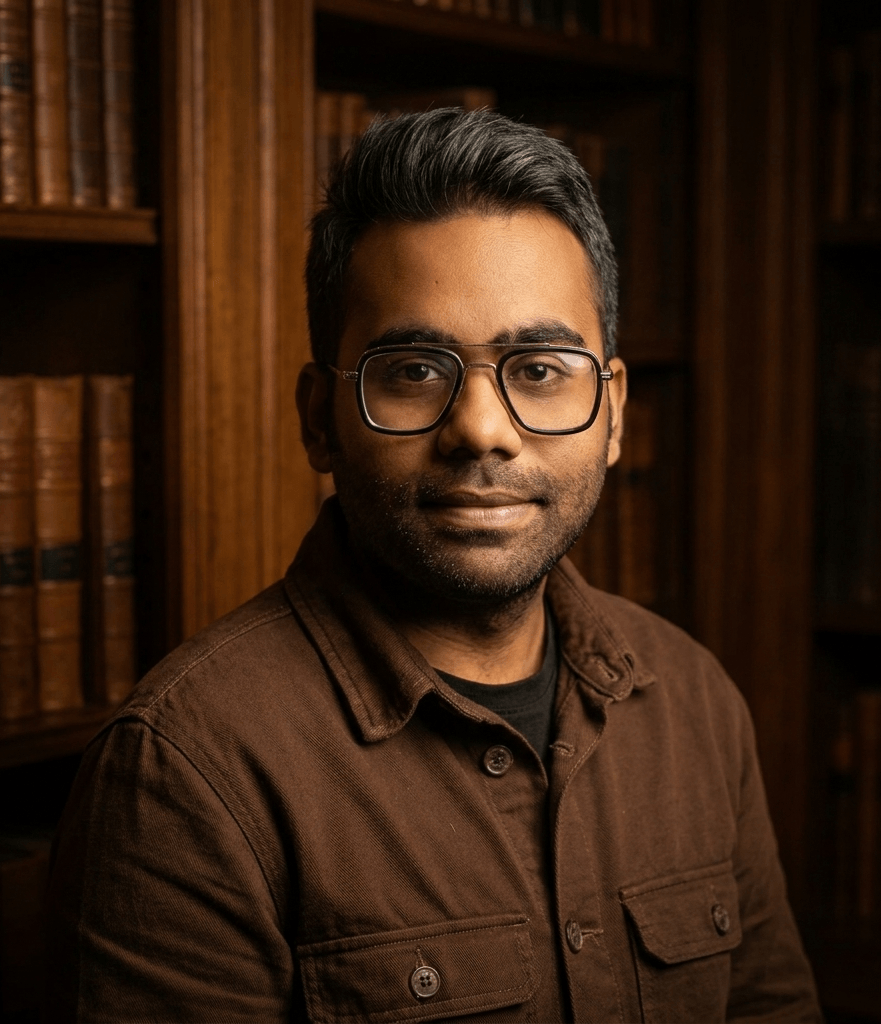
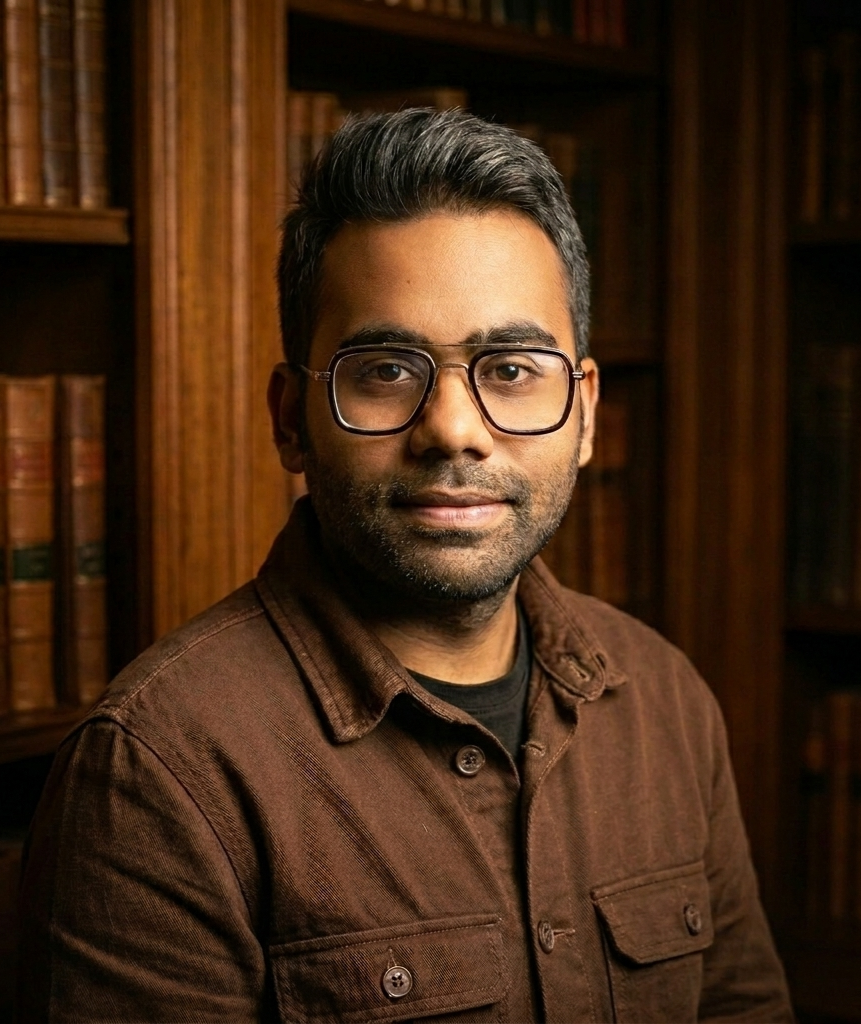
Update site

diff --git a/favorites.html b/favorites.html
@@ -153,8 +153,8 @@
           <div class="grid grid-cols-2 md:grid-cols-3 lg:grid-cols-5 gap-8">
             <!-- Movie Card 1 -->
             <div class="group space-y-4">
-              <div class="aspect-[2/3] rounded-2xl overflow-hidden bg-zinc-900 border border-zinc-800 relative skeleton">
-                <img src="posters/zacksnydersjusticeleague.png" alt="Zack Snyder's Justice League" class="w-full h-full object-cover grayscale opacity-80 contrast-75 group-hover:grayscale-0 group-hover:opacity-100 group-hover:contrast-100 transition-all duration-700 group-hover:scale-105 opacity-0 invisible" fetchpriority="high" referrerPolicy="no-referrer" onload="onThumbnailLoad(this)">
+              <div class="aspect-[2/3] rounded-2xl overflow-hidden bg-zinc-900 border border-zinc-800 relative skeleton theme-photo-shade">
+                <img src="posters/zacksnydersjusticeleague.png" alt="Zack Snyder's Justice League" class="w-full h-full object-cover group-hover:scale-105 opacity-0 invisible" fetchpriority="high" referrerPolicy="no-referrer" onload="onThumbnailLoad(this)">
                 <div class="absolute inset-0 bg-gradient-to-t from-black/60 to-transparent opacity-0 group-hover:opacity-100 transition-opacity"></div>
               </div>
               <h3 class="text-lg font-bold group-hover:text-white transition-colors text-center">Zack Snyder's Justice League</h3>
@@ -162,8 +162,8 @@
 
             <!-- Movie Card 2 -->
             <div class="group space-y-4">
-              <div class="aspect-[2/3] rounded-2xl overflow-hidden bg-zinc-900 border border-zinc-800 relative skeleton">
-                <img src="posters/blackmirror.jpg" alt="Black Mirror" class="w-full h-full object-cover grayscale opacity-80 contrast-75 group-hover:grayscale-0 group-hover:opacity-100 group-hover:contrast-100 transition-all duration-700 group-hover:scale-105 opacity-0 invisible" fetchpriority="high" referrerPolicy="no-referrer" onload="onThumbnailLoad(this)">
+              <div class="aspect-[2/3] rounded-2xl overflow-hidden bg-zinc-900 border border-zinc-800 relative skeleton theme-photo-shade">
+                <img src="posters/blackmirror.jpg" alt="Black Mirror" class="w-full h-full object-cover group-hover:scale-105 opacity-0 invisible" fetchpriority="high" referrerPolicy="no-referrer" onload="onThumbnailLoad(this)">
                 <div class="absolute inset-0 bg-gradient-to-t from-black/60 to-transparent opacity-0 group-hover:opacity-100 transition-opacity"></div>
               </div>
               <h3 class="text-lg font-bold group-hover:text-white transition-colors text-center">Black Mirror</h3>
@@ -171,8 +171,8 @@
 
             <!-- Movie Card 3 -->
             <div class="group space-y-4">
-              <div class="aspect-[2/3] rounded-2xl overflow-hidden bg-zinc-900 border border-zinc-800 relative skeleton">
-                <img src="posters/dark.jpg" alt="Dark" class="w-full h-full object-cover grayscale opacity-80 contrast-75 group-hover:grayscale-0 group-hover:opacity-100 group-hover:contrast-100 transition-all duration-700 group-hover:scale-105 opacity-0 invisible" fetchpriority="high" referrerPolicy="no-referrer" onload="onThumbnailLoad(this)">
+              <div class="aspect-[2/3] rounded-2xl overflow-hidden bg-zinc-900 border border-zinc-800 relative skeleton theme-photo-shade">
+                <img src="posters/dark.jpg" alt="Dark" class="w-full h-full object-cover group-hover:scale-105 opacity-0 invisible" fetchpriority="high" referrerPolicy="no-referrer" onload="onThumbnailLoad(this)">
                 <div class="absolute inset-0 bg-gradient-to-t from-black/60 to-transparent opacity-0 group-hover:opacity-100 transition-opacity"></div>
               </div>
               <h3 class="text-lg font-bold group-hover:text-white transition-colors text-center">Dark</h3>
@@ -180,8 +180,8 @@
 
             <!-- Movie Card 4 -->
             <div class="group space-y-4">
-              <div class="aspect-[2/3] rounded-2xl overflow-hidden bg-zinc-900 border border-zinc-800 relative skeleton">
-                <img src="posters/themartian.jpg" alt="The Martian" class="w-full h-full object-cover grayscale opacity-80 contrast-75 group-hover:grayscale-0 group-hover:opacity-100 group-hover:contrast-100 transition-all duration-700 group-hover:scale-105 opacity-0 invisible" fetchpriority="high" referrerPolicy="no-referrer" onload="onThumbnailLoad(this)">
+              <div class="aspect-[2/3] rounded-2xl overflow-hidden bg-zinc-900 border border-zinc-800 relative skeleton theme-photo-shade">
+                <img src="posters/themartian.jpg" alt="The Martian" class="w-full h-full object-cover group-hover:scale-105 opacity-0 invisible" fetchpriority="high" referrerPolicy="no-referrer" onload="onThumbnailLoad(this)">
                 <div class="absolute inset-0 bg-gradient-to-t from-black/60 to-transparent opacity-0 group-hover:opacity-100 transition-opacity"></div>
               </div>
               <h3 class="text-lg font-bold group-hover:text-white transition-colors text-center">The Martian</h3>
@@ -189,8 +189,8 @@
 
             <!-- Movie Card 5 -->
             <div class="group space-y-4">
-              <div class="aspect-[2/3] rounded-2xl overflow-hidden bg-zinc-900 border border-zinc-800 relative skeleton">
-                <img src="posters/strangerthings.jpg" alt="Stranger Things" class="w-full h-full object-cover grayscale opacity-80 contrast-75 group-hover:grayscale-0 group-hover:opacity-100 group-hover:contrast-100 transition-all duration-700 group-hover:scale-105 opacity-0 invisible" fetchpriority="high" referrerPolicy="no-referrer" onload="onThumbnailLoad(this)">
+              <div class="aspect-[2/3] rounded-2xl overflow-hidden bg-zinc-900 border border-zinc-800 relative skeleton theme-photo-shade">
+                <img src="posters/strangerthings.jpg" alt="Stranger Things" class="w-full h-full object-cover group-hover:scale-105 opacity-0 invisible" fetchpriority="high" referrerPolicy="no-referrer" onload="onThumbnailLoad(this)">
                 <div class="absolute inset-0 bg-gradient-to-t from-black/60 to-transparent opacity-0 group-hover:opacity-100 transition-opacity"></div>
               </div>
               <h3 class="text-lg font-bold group-hover:text-white transition-colors text-center">Stranger Things</h3>
@@ -396,68 +396,68 @@
 
           <div id="galleryGrid" class="grid grid-cols-2 md:grid-cols-4 lg:grid-cols-5 gap-6">
             <!-- Images are now managed by index to handle responsive counts -->
-            <div class="aspect-[3/4] rounded-3xl overflow-hidden bg-zinc-900 border border-zinc-800 group cursor-pointer skeleton" data-gallery-index="0" onclick="openGallery(0)">
-              <img src="pictures/IMG20250102175550.jpg" alt="Gallery 1" class="w-full h-full object-cover opacity-80 contrast-75 group-hover:opacity-100 group-hover:contrast-100 transition-all duration-700 group-hover:scale-110 opacity-0 invisible" fetchpriority="high" referrerPolicy="no-referrer" onload="onThumbnailLoad(this)">
+            <div class="aspect-[3/4] rounded-3xl overflow-hidden bg-zinc-900 border border-zinc-800 group cursor-pointer skeleton theme-photo-shade" data-gallery-index="0" onclick="openGallery(0)">
+              <img src="pictures/IMG20250102175550.jpg" alt="Gallery 1" class="w-full h-full object-cover group-hover:scale-110 opacity-0 invisible" fetchpriority="high" referrerPolicy="no-referrer" onload="onThumbnailLoad(this)">
             </div>
-            <div class="aspect-[3/4] rounded-3xl overflow-hidden bg-zinc-900 border border-zinc-800 group cursor-pointer skeleton" data-gallery-index="1" onclick="openGallery(1)">
-              <img src="pictures/IMG20220401160123.jpg" alt="Gallery 2" class="w-full h-full object-cover opacity-80 contrast-75 group-hover:opacity-100 group-hover:contrast-100 transition-all duration-700 group-hover:scale-110 opacity-0 invisible" fetchpriority="high" referrerPolicy="no-referrer" onload="onThumbnailLoad(this)">
+            <div class="aspect-[3/4] rounded-3xl overflow-hidden bg-zinc-900 border border-zinc-800 group cursor-pointer skeleton theme-photo-shade" data-gallery-index="1" onclick="openGallery(1)">
+              <img src="pictures/IMG20220401160123.jpg" alt="Gallery 2" class="w-full h-full object-cover group-hover:scale-110 opacity-0 invisible" fetchpriority="high" referrerPolicy="no-referrer" onload="onThumbnailLoad(this)">
             </div>
-            <div class="aspect-[3/4] rounded-3xl overflow-hidden bg-zinc-900 border border-zinc-800 group cursor-pointer skeleton" data-gallery-index="2" onclick="openGallery(2)">
-              <img src="pictures/9c150393-428e-433d-a2a2-87eb7267d379.jpg" alt="Gallery 3" class="w-full h-full object-cover opacity-80 contrast-75 group-hover:opacity-100 group-hover:contrast-100 transition-all duration-700 group-hover:scale-110 opacity-0 invisible" fetchpriority="high" referrerPolicy="no-referrer" onload="onThumbnailLoad(this)">
+            <div class="aspect-[3/4] rounded-3xl overflow-hidden bg-zinc-900 border border-zinc-800 group cursor-pointer skeleton theme-photo-shade" data-gallery-index="2" onclick="openGallery(2)">
+              <img src="pictures/9c150393-428e-433d-a2a2-87eb7267d379.jpg" alt="Gallery 3" class="w-full h-full object-cover group-hover:scale-110 opacity-0 invisible" fetchpriority="high" referrerPolicy="no-referrer" onload="onThumbnailLoad(this)">
             </div>
-            <div class="aspect-[3/4] rounded-3xl overflow-hidden bg-zinc-900 border border-zinc-800 group cursor-pointer skeleton" data-gallery-index="3" onclick="openGallery(3)">
-              <img src="pictures/37c11e17-a0ae-44f3-8b23-326a8793fcf9.jpg" alt="Gallery 4" class="w-full h-full object-cover opacity-80 contrast-75 group-hover:opacity-100 group-hover:contrast-100 transition-all duration-700 group-hover:scale-110 opacity-0 invisible" loading="lazy" referrerPolicy="no-referrer" onload="onThumbnailLoad(this)">
+            <div class="aspect-[3/4] rounded-3xl overflow-hidden bg-zinc-900 border border-zinc-800 group cursor-pointer skeleton theme-photo-shade" data-gallery-index="3" onclick="openGallery(3)">
+              <img src="pictures/37c11e17-a0ae-44f3-8b23-326a8793fcf9.jpg" alt="Gallery 4" class="w-full h-full object-cover group-hover:scale-110 opacity-0 invisible" loading="lazy" referrerPolicy="no-referrer" onload="onThumbnailLoad(this)">
             </div>
-            <div class="aspect-[3/4] rounded-3xl overflow-hidden bg-zinc-900 border border-zinc-800 group cursor-pointer hidden skeleton" data-gallery-index="4" onclick="openGallery(4)">
-              <img src="pictures/1ad9725b-0604-437f-a886-815632e78192.jpg" alt="Gallery 5" class="w-full h-full object-cover opacity-80 contrast-75 group-hover:opacity-100 group-hover:contrast-100 transition-all duration-700 group-hover:scale-110 opacity-0 invisible" loading="lazy" referrerPolicy="no-referrer" onload="onThumbnailLoad(this)">
+            <div class="aspect-[3/4] rounded-3xl overflow-hidden bg-zinc-900 border border-zinc-800 group cursor-pointer hidden skeleton theme-photo-shade" data-gallery-index="4" onclick="openGallery(4)">
+              <img src="pictures/1ad9725b-0604-437f-a886-815632e78192.jpg" alt="Gallery 5" class="w-full h-full object-cover group-hover:scale-110 opacity-0 invisible" loading="lazy" referrerPolicy="no-referrer" onload="onThumbnailLoad(this)">
             </div>
             
-            <div class="aspect-[3/4] rounded-3xl overflow-hidden bg-zinc-900 border border-zinc-800 group cursor-pointer hidden skeleton" data-gallery-index="5" onclick="openGallery(5)">
-              <img src="pictures/50656507-34cb-4921-ab62-d47d68071f7c.jpg" alt="Gallery 6" class="w-full h-full object-cover opacity-80 contrast-75 group-hover:opacity-100 group-hover:contrast-100 transition-all duration-700 group-hover:scale-110 opacity-0 invisible" loading="lazy" referrerPolicy="no-referrer" onload="onThumbnailLoad(this)">
+            <div class="aspect-[3/4] rounded-3xl overflow-hidden bg-zinc-900 border border-zinc-800 group cursor-pointer hidden skeleton theme-photo-shade" data-gallery-index="5" onclick="openGallery(5)">
+              <img src="pictures/50656507-34cb-4921-ab62-d47d68071f7c.jpg" alt="Gallery 6" class="w-full h-full object-cover group-hover:scale-110 opacity-0 invisible" loading="lazy" referrerPolicy="no-referrer" onload="onThumbnailLoad(this)">
             </div>
-            <div class="aspect-[3/4] rounded-3xl overflow-hidden bg-zinc-900 border border-zinc-800 group cursor-pointer hidden skeleton" data-gallery-index="6" onclick="openGallery(6)">
-              <img src="pictures/b3594dfd-1cba-4800-b7a8-3f4253b855e9.jpg" alt="Gallery 7" class="w-full h-full object-cover opacity-80 contrast-75 group-hover:opacity-100 group-hover:contrast-100 transition-all duration-700 group-hover:scale-110 opacity-0 invisible" loading="lazy" referrerPolicy="no-referrer" onload="onThumbnailLoad(this)">
+            <div class="aspect-[3/4] rounded-3xl overflow-hidden bg-zinc-900 border border-zinc-800 group cursor-pointer hidden skeleton theme-photo-shade" data-gallery-index="6" onclick="openGallery(6)">
+              <img src="pictures/b3594dfd-1cba-4800-b7a8-3f4253b855e9.jpg" alt="Gallery 7" class="w-full h-full object-cover group-hover:scale-110 opacity-0 invisible" loading="lazy" referrerPolicy="no-referrer" onload="onThumbnailLoad(this)">
             </div>
-            <div class="aspect-[3/4] rounded-3xl overflow-hidden bg-zinc-900 border border-zinc-800 group cursor-pointer hidden skeleton" data-gallery-index="7" onclick="openGallery(7)">
-              <img src="pictures/10929d4a-d18a-4e4d-92bd-bb59c0de4fba.jpg" alt="Gallery 8" class="w-full h-full object-cover opacity-80 contrast-75 group-hover:opacity-100 group-hover:contrast-100 transition-all duration-700 group-hover:scale-110 opacity-0 invisible" loading="lazy" referrerPolicy="no-referrer" onload="onThumbnailLoad(this)">
+            <div class="aspect-[3/4] rounded-3xl overflow-hidden bg-zinc-900 border border-zinc-800 group cursor-pointer hidden skeleton theme-photo-shade" data-gallery-index="7" onclick="openGallery(7)">
+              <img src="pictures/10929d4a-d18a-4e4d-92bd-bb59c0de4fba.jpg" alt="Gallery 8" class="w-full h-full object-cover group-hover:scale-110 opacity-0 invisible" loading="lazy" referrerPolicy="no-referrer" onload="onThumbnailLoad(this)">
             </div>
-            <div class="aspect-[3/4] rounded-3xl overflow-hidden bg-zinc-900 border border-zinc-800 group cursor-pointer hidden skeleton" data-gallery-index="8" onclick="openGallery(8)">
-              <img src="pictures/640e74df-5d3e-477a-a9cf-6deca11e1441.jpg" alt="Gallery 9" class="w-full h-full object-cover opacity-80 contrast-75 group-hover:opacity-100 group-hover:contrast-100 transition-all duration-700 group-hover:scale-110 opacity-0 invisible" loading="lazy" referrerPolicy="no-referrer" onload="onThumbnailLoad(this)">
+            <div class="aspect-[3/4] rounded-3xl overflow-hidden bg-zinc-900 border border-zinc-800 group cursor-pointer hidden skeleton theme-photo-shade" data-gallery-index="8" onclick="openGallery(8)">
+              <img src="pictures/640e74df-5d3e-477a-a9cf-6deca11e1441.jpg" alt="Gallery 9" class="w-full h-full object-cover group-hover:scale-110 opacity-0 invisible" loading="lazy" referrerPolicy="no-referrer" onload="onThumbnailLoad(this)">
             </div>
-            <div class="aspect-[3/4] rounded-3xl overflow-hidden bg-zinc-900 border border-zinc-800 group cursor-pointer hidden skeleton" data-gallery-index="9" onclick="openGallery(9)">
-              <img src="pictures/625e4fbb-6da9-483f-abdd-1c94a2fcd2a4.jpg" alt="Gallery 10" class="w-full h-full object-cover opacity-80 contrast-75 group-hover:opacity-100 group-hover:contrast-100 transition-all duration-700 group-hover:scale-110 opacity-0 invisible" loading="lazy" referrerPolicy="no-referrer" onload="onThumbnailLoad(this)">
-            </div>
-
-            <div class="aspect-[3/4] rounded-3xl overflow-hidden bg-zinc-900 border border-zinc-800 group cursor-pointer hidden skeleton" data-gallery-index="10" onclick="openGallery(10)">
-              <img src="pictures/11.jpg" alt="Gallery 11" class="w-full h-full object-cover opacity-80 contrast-75 group-hover:opacity-100 group-hover:contrast-100 transition-all duration-700 group-hover:scale-110 opacity-0 invisible" loading="lazy" referrerPolicy="no-referrer" onload="onThumbnailLoad(this)">
-            </div>
-            <div class="aspect-[3/4] rounded-3xl overflow-hidden bg-zinc-900 border border-zinc-800 group cursor-pointer hidden skeleton" data-gallery-index="11" onclick="openGallery(11)">
-              <img src="pictures/12.jpg" alt="Gallery 12" class="w-full h-full object-cover opacity-80 contrast-75 group-hover:opacity-100 group-hover:contrast-100 transition-all duration-700 group-hover:scale-110 opacity-0 invisible" loading="lazy" referrerPolicy="no-referrer" onload="onThumbnailLoad(this)">
-            </div>
-            <div class="aspect-[3/4] rounded-3xl overflow-hidden bg-zinc-900 border border-zinc-800 group cursor-pointer hidden skeleton" data-gallery-index="12" onclick="openGallery(12)">
-              <img src="pictures/13.jpg" alt="Gallery 13" class="w-full h-full object-cover opacity-80 contrast-75 group-hover:opacity-100 group-hover:contrast-100 transition-all duration-700 group-hover:scale-110 opacity-0 invisible" loading="lazy" referrerPolicy="no-referrer" onload="onThumbnailLoad(this)">
-            </div>
-            <div class="aspect-[3/4] rounded-3xl overflow-hidden bg-zinc-900 border border-zinc-800 group cursor-pointer hidden skeleton" data-gallery-index="13" onclick="openGallery(13)">
-              <img src="pictures/14.jpg" alt="Gallery 14" class="w-full h-full object-cover opacity-80 contrast-75 group-hover:opacity-100 group-hover:contrast-100 transition-all duration-700 group-hover:scale-110 opacity-0 invisible" loading="lazy" referrerPolicy="no-referrer" onload="onThumbnailLoad(this)">
-            </div>
-            <div class="aspect-[3/4] rounded-3xl overflow-hidden bg-zinc-900 border border-zinc-800 group cursor-pointer hidden skeleton" data-gallery-index="14" onclick="openGallery(14)">
-              <img src="pictures/15.jpg" alt="Gallery 15" class="w-full h-full object-cover opacity-80 contrast-75 group-hover:opacity-100 group-hover:contrast-100 transition-all duration-700 group-hover:scale-110 opacity-0 invisible" loading="lazy" referrerPolicy="no-referrer" onload="onThumbnailLoad(this)">
+            <div class="aspect-[3/4] rounded-3xl overflow-hidden bg-zinc-900 border border-zinc-800 group cursor-pointer hidden skeleton theme-photo-shade" data-gallery-index="9" onclick="openGallery(9)">
+              <img src="pictures/625e4fbb-6da9-483f-abdd-1c94a2fcd2a4.jpg" alt="Gallery 10" class="w-full h-full object-cover group-hover:scale-110 opacity-0 invisible" loading="lazy" referrerPolicy="no-referrer" onload="onThumbnailLoad(this)">
             </div>
 
-            <div class="aspect-[3/4] rounded-3xl overflow-hidden bg-zinc-900 border border-zinc-800 group cursor-pointer hidden skeleton" data-gallery-index="15" onclick="openGallery(15)">
-              <img src="pictures/16.jpg" alt="Gallery 16" class="w-full h-full object-cover opacity-80 contrast-75 group-hover:opacity-100 group-hover:contrast-100 transition-all duration-700 group-hover:scale-110 opacity-0 invisible" loading="lazy" referrerPolicy="no-referrer" onload="onThumbnailLoad(this)">
+            <div class="aspect-[3/4] rounded-3xl overflow-hidden bg-zinc-900 border border-zinc-800 group cursor-pointer hidden skeleton theme-photo-shade" data-gallery-index="10" onclick="openGallery(10)">
+              <img src="pictures/11.jpg" alt="Gallery 11" class="w-full h-full object-cover group-hover:scale-110 opacity-0 invisible" loading="lazy" referrerPolicy="no-referrer" onload="onThumbnailLoad(this)">
             </div>
-            <div class="aspect-[3/4] rounded-3xl overflow-hidden bg-zinc-900 border border-zinc-800 group cursor-pointer hidden skeleton" data-gallery-index="16" onclick="openGallery(16)">
-              <img src="pictures/17.jpg" alt="Gallery 17" class="w-full h-full object-cover opacity-80 contrast-75 group-hover:opacity-100 group-hover:contrast-100 transition-all duration-700 group-hover:scale-110 opacity-0 invisible" loading="lazy" referrerPolicy="no-referrer" onload="onThumbnailLoad(this)">
+            <div class="aspect-[3/4] rounded-3xl overflow-hidden bg-zinc-900 border border-zinc-800 group cursor-pointer hidden skeleton theme-photo-shade" data-gallery-index="11" onclick="openGallery(11)">
+              <img src="pictures/12.jpg" alt="Gallery 12" class="w-full h-full object-cover group-hover:scale-110 opacity-0 invisible" loading="lazy" referrerPolicy="no-referrer" onload="onThumbnailLoad(this)">
             </div>
-            <div class="aspect-[3/4] rounded-3xl overflow-hidden bg-zinc-900 border border-zinc-800 group cursor-pointer hidden skeleton" data-gallery-index="17" onclick="openGallery(17)">
-              <img src="pictures/18.jpg" alt="Gallery 18" class="w-full h-full object-cover opacity-80 contrast-75 group-hover:opacity-100 group-hover:contrast-100 transition-all duration-700 group-hover:scale-110 opacity-0 invisible" loading="lazy" referrerPolicy="no-referrer" onload="onThumbnailLoad(this)">
+            <div class="aspect-[3/4] rounded-3xl overflow-hidden bg-zinc-900 border border-zinc-800 group cursor-pointer hidden skeleton theme-photo-shade" data-gallery-index="12" onclick="openGallery(12)">
+              <img src="pictures/13.jpg" alt="Gallery 13" class="w-full h-full object-cover group-hover:scale-110 opacity-0 invisible" loading="lazy" referrerPolicy="no-referrer" onload="onThumbnailLoad(this)">
             </div>
-            <div class="aspect-[3/4] rounded-3xl overflow-hidden bg-zinc-900 border border-zinc-800 group cursor-pointer hidden skeleton" data-gallery-index="18" onclick="openGallery(18)">
-              <img src="pictures/19.jpg" alt="Gallery 19" class="w-full h-full object-cover opacity-80 contrast-75 group-hover:opacity-100 group-hover:contrast-100 transition-all duration-700 group-hover:scale-110 opacity-0 invisible" loading="lazy" referrerPolicy="no-referrer" onload="onThumbnailLoad(this)">
+            <div class="aspect-[3/4] rounded-3xl overflow-hidden bg-zinc-900 border border-zinc-800 group cursor-pointer hidden skeleton theme-photo-shade" data-gallery-index="13" onclick="openGallery(13)">
+              <img src="pictures/14.jpg" alt="Gallery 14" class="w-full h-full object-cover group-hover:scale-110 opacity-0 invisible" loading="lazy" referrerPolicy="no-referrer" onload="onThumbnailLoad(this)">
             </div>
-            <div class="aspect-[3/4] rounded-3xl overflow-hidden bg-zinc-900 border border-zinc-800 group cursor-pointer hidden skeleton" data-gallery-index="19" onclick="openGallery(19)">
-              <img src="pictures/20.JPG" alt="Gallery 20" class="w-full h-full object-cover opacity-80 contrast-75 group-hover:opacity-100 group-hover:contrast-100 transition-all duration-700 group-hover:scale-110 opacity-0 invisible" loading="lazy" referrerPolicy="no-referrer" onload="onThumbnailLoad(this)">
+            <div class="aspect-[3/4] rounded-3xl overflow-hidden bg-zinc-900 border border-zinc-800 group cursor-pointer hidden skeleton theme-photo-shade" data-gallery-index="14" onclick="openGallery(14)">
+              <img src="pictures/15.jpg" alt="Gallery 15" class="w-full h-full object-cover group-hover:scale-110 opacity-0 invisible" loading="lazy" referrerPolicy="no-referrer" onload="onThumbnailLoad(this)">
+            </div>
+
+            <div class="aspect-[3/4] rounded-3xl overflow-hidden bg-zinc-900 border border-zinc-800 group cursor-pointer hidden skeleton theme-photo-shade" data-gallery-index="15" onclick="openGallery(15)">
+              <img src="pictures/16.jpg" alt="Gallery 16" class="w-full h-full object-cover group-hover:scale-110 opacity-0 invisible" loading="lazy" referrerPolicy="no-referrer" onload="onThumbnailLoad(this)">
+            </div>
+            <div class="aspect-[3/4] rounded-3xl overflow-hidden bg-zinc-900 border border-zinc-800 group cursor-pointer hidden skeleton theme-photo-shade" data-gallery-index="16" onclick="openGallery(16)">
+              <img src="pictures/17.jpg" alt="Gallery 17" class="w-full h-full object-cover group-hover:scale-110 opacity-0 invisible" loading="lazy" referrerPolicy="no-referrer" onload="onThumbnailLoad(this)">
+            </div>
+            <div class="aspect-[3/4] rounded-3xl overflow-hidden bg-zinc-900 border border-zinc-800 group cursor-pointer hidden skeleton theme-photo-shade" data-gallery-index="17" onclick="openGallery(17)">
+              <img src="pictures/18.jpg" alt="Gallery 18" class="w-full h-full object-cover group-hover:scale-110 opacity-0 invisible" loading="lazy" referrerPolicy="no-referrer" onload="onThumbnailLoad(this)">
+            </div>
+            <div class="aspect-[3/4] rounded-3xl overflow-hidden bg-zinc-900 border border-zinc-800 group cursor-pointer hidden skeleton theme-photo-shade" data-gallery-index="18" onclick="openGallery(18)">
+              <img src="pictures/19.jpg" alt="Gallery 19" class="w-full h-full object-cover group-hover:scale-110 opacity-0 invisible" loading="lazy" referrerPolicy="no-referrer" onload="onThumbnailLoad(this)">
+            </div>
+            <div class="aspect-[3/4] rounded-3xl overflow-hidden bg-zinc-900 border border-zinc-800 group cursor-pointer hidden skeleton theme-photo-shade" data-gallery-index="19" onclick="openGallery(19)">
+              <img src="pictures/20.JPG" alt="Gallery 20" class="w-full h-full object-cover group-hover:scale-110 opacity-0 invisible" loading="lazy" referrerPolicy="no-referrer" onload="onThumbnailLoad(this)">
             </div>
           </div>
 

diff --git a/person.html b/person.html
@@ -103,7 +103,7 @@
             </div>
           </div>
           <div class="relative group max-w-sm md:max-w-md mx-auto lg:mx-0 overflow-hidden lg:overflow-visible">
-            <div class="aspect-[4/5] rounded-[2.5rem] md:rounded-[3rem] overflow-hidden bg-zinc-900 border border-zinc-800 shadow-2xl transition-all duration-700 group-hover:border-zinc-700 relative z-10">
+            <div class="aspect-[4/5] rounded-[2.5rem] md:rounded-[3rem] overflow-hidden bg-zinc-900 border border-zinc-800 shadow-2xl transition-all duration-700 group-hover:border-zinc-700 relative z-10 theme-photo-shade static-shade">
               <img src="pictures/syed-2.png" alt="Syed Irfan" class="w-full h-full object-cover" referrerPolicy="no-referrer">
             </div>
             <!-- Decorative Glows -->
@@ -203,7 +203,7 @@
               </div>
 
               <div class="relative">
-                <div class="aspect-[4/3] rounded-[2rem] overflow-hidden bg-zinc-900 border border-zinc-800 group-hover:border-zinc-700 transition-all duration-500 relative z-10">
+                <div class="aspect-[4/3] rounded-[2rem] overflow-hidden bg-zinc-900 border border-zinc-800 group-hover:border-zinc-700 transition-all duration-500 relative z-10 theme-photo-shade">
                   <img src="pictures/parents.jpg" alt="My Parents" class="w-full h-full object-cover" referrerPolicy="no-referrer">
                 </div>
                 <div class="absolute -top-12 -right-12 w-64 h-64 bg-zinc-500/5 blur-[100px] rounded-full pointer-events-none group-hover:bg-zinc-500/10 transition-all duration-700"></div>
@@ -246,7 +246,7 @@
                 </div>
               </div>
               <div class="relative">
-                <div class="aspect-square rounded-3xl overflow-hidden bg-zinc-900 border border-zinc-800 group-hover:border-zinc-700 transition-all duration-500 relative z-10">
+                <div class="aspect-square rounded-3xl overflow-hidden bg-zinc-900 border border-zinc-800 group-hover:border-zinc-700 transition-all duration-500 relative z-10 theme-photo-shade">
                   <img src="pictures/nova.jpg" alt="Nova - My Cat" class="w-full h-full object-cover" referrerPolicy="no-referrer">
                 </div>
                 <div class="absolute -top-12 -right-12 w-64 h-64 bg-zinc-500/5 blur-[100px] rounded-full pointer-events-none group-hover:bg-zinc-500/10 transition-all duration-700"></div>

diff --git a/script.js b/script.js
@@ -716,11 +716,11 @@ const projectsData = {
           <p>This project involved the design and simulation of complex digital systems for the CSE 231 Digital Logic Design course. The implementation focuses on combinational and sequential circuit design with rigorous verification.</p>
           
           <div class="grid grid-cols-2 gap-4">
-            <div class="aspect-square rounded-xl overflow-hidden bg-zinc-900 border border-zinc-800">
-              <img src="projects/dld1.jpg" alt="DLD Circuit 1" class="w-full h-full object-cover opacity-80 hover:opacity-100 transition-opacity" referrerPolicy="no-referrer">
+            <div class="aspect-square rounded-xl overflow-hidden bg-zinc-900 border border-zinc-800 theme-photo-shade">
+              <img src="projects/dld1.jpg" alt="DLD Circuit 1" class="w-full h-full object-cover" referrerPolicy="no-referrer">
             </div>
-            <div class="aspect-square rounded-xl overflow-hidden bg-zinc-900 border border-zinc-800">
-              <img src="projects/dld2.png" alt="DLD Circuit 2" class="w-full h-full object-cover opacity-80 hover:opacity-100 transition-opacity" referrerPolicy="no-referrer">
+            <div class="aspect-square rounded-xl overflow-hidden bg-zinc-900 border border-zinc-800 theme-photo-shade">
+              <img src="projects/dld2.png" alt="DLD Circuit 2" class="w-full h-full object-cover" referrerPolicy="no-referrer">
             </div>
           </div>
         </div>

diff --git a/style.css b/style.css
@@ -310,3 +310,41 @@ body {
   20% { opacity: 1; }
   100% { transform: translateY(-25px) scale(1.2); opacity: 0; }
 }
+
+/* Global Photo Theme Shade */
+.theme-photo-shade {
+  position: relative;
+  overflow: hidden;
+}
+
+.theme-photo-shade img {
+  filter: grayscale(0.25) contrast(0.9);
+  transition: all 0.7s cubic-bezier(0.4, 0, 0.2, 1);
+}
+
+.theme-photo-shade::after {
+  content: '';
+  position: absolute;
+  inset: 0;
+  background-color: rgba(9, 9, 11, 0.2);
+  transition: all 0.7s cubic-bezier(0.4, 0, 0.2, 1);
+  pointer-events: none;
+  z-index: 10;
+}
+
+.theme-photo-shade:hover img {
+  filter: grayscale(0) contrast(1);
+}
+
+.theme-photo-shade:hover::after {
+  background-color: transparent;
+}
+
+/* Static Variant (No Hover Effect) */
+.theme-photo-shade.static-shade:hover img {
+  filter: grayscale(0.25) contrast(0.9);
+}
+
+.theme-photo-shade.static-shade:hover::after {
+  background-color: rgba(9, 9, 11, 0.2);
+}
